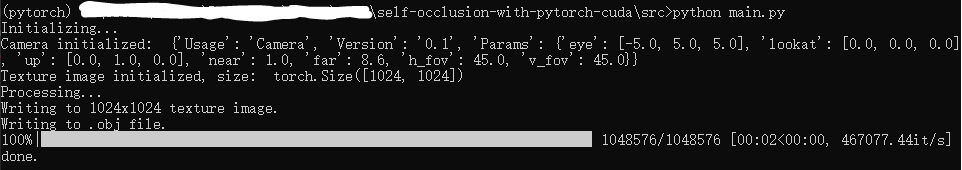
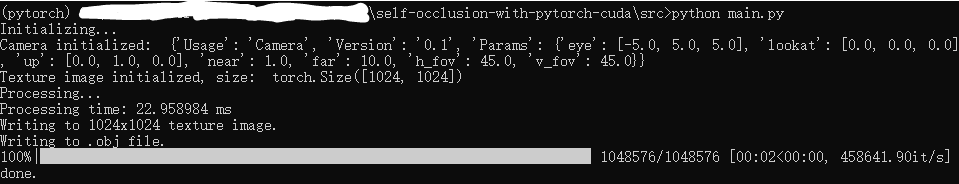
update example

Changed region(s): [[0.0, 0.0, 1.0, 1.0]]

diff --git a/src/main.py b/src/main.py
@@ -1,6 +1,7 @@
 import os
 import sys
 sys.path.append('../')
+import time
 import torch
 from Entity.camera import Camera
 from Entity.object import Object
@@ -18,6 +19,7 @@ if __name__=="__main__":
     texture = Texture()
 
     print("Processing...")
+    time1 = time.time()
     # texture sampling to object sampling
     map_res = sampling(object_3d, texture)
     temp_v = map_res[0].cpu().numpy() # for .obj result output
@@ -27,6 +29,10 @@ if __name__=="__main__":
 
     # occlusion
     occlude_res = occlusion(object_3d, camera, map_res[0], clip_res)
+    time2 = time.time()
+
+    # time calculation
+    print('Processing time: %f ms' % ((time2 * 1000) - (time1 * 1000)))
 
     # save results
     print("Writing to 1024x1024 texture image.")

diff --git a/src/cpp/occlusion_detection/test.py b/src/cpp/occlusion_detection/test.py
@@ -6,6 +6,6 @@ v1 = torch.FloatTensor([[0,-2,0], [0,2,0], [2,0,0]]).cuda()
 start = torch.FloatTensor([0,0,1]).cuda()
 sample = torch.FloatTensor([[1,0,-1], [0.5, 0, 0.5]]).cuda()
 ind = torch.IntTensor([10]).cuda()
-hehe = occlusion_detection.occlusion_detection(v1, start, sample, ind)
+final_res = occlusion_detection.occlusion_detection(v1, start, sample, ind)
 
-print(hehe)
+print(final_res)

diff --git a/src/cpp/texture_mapping/test.py b/src/cpp/texture_mapping/test.py
@@ -5,5 +5,5 @@ v1 = torch.FloatTensor([[0,0,0], [0,1,0], [1,0,0]]).cuda()
 t1 = torch.FloatTensor([[0,0], [0,1], [1,0]]).cuda()
 sample = torch.FloatTensor([[0.8, 0.2999999]]).cuda()
 
-hehe = texture_mapping.texture_mapping(v1, t1, sample)
-print(hehe)
+final_res = texture_mapping.texture_mapping(v1, t1, sample)
+print(final_res)
